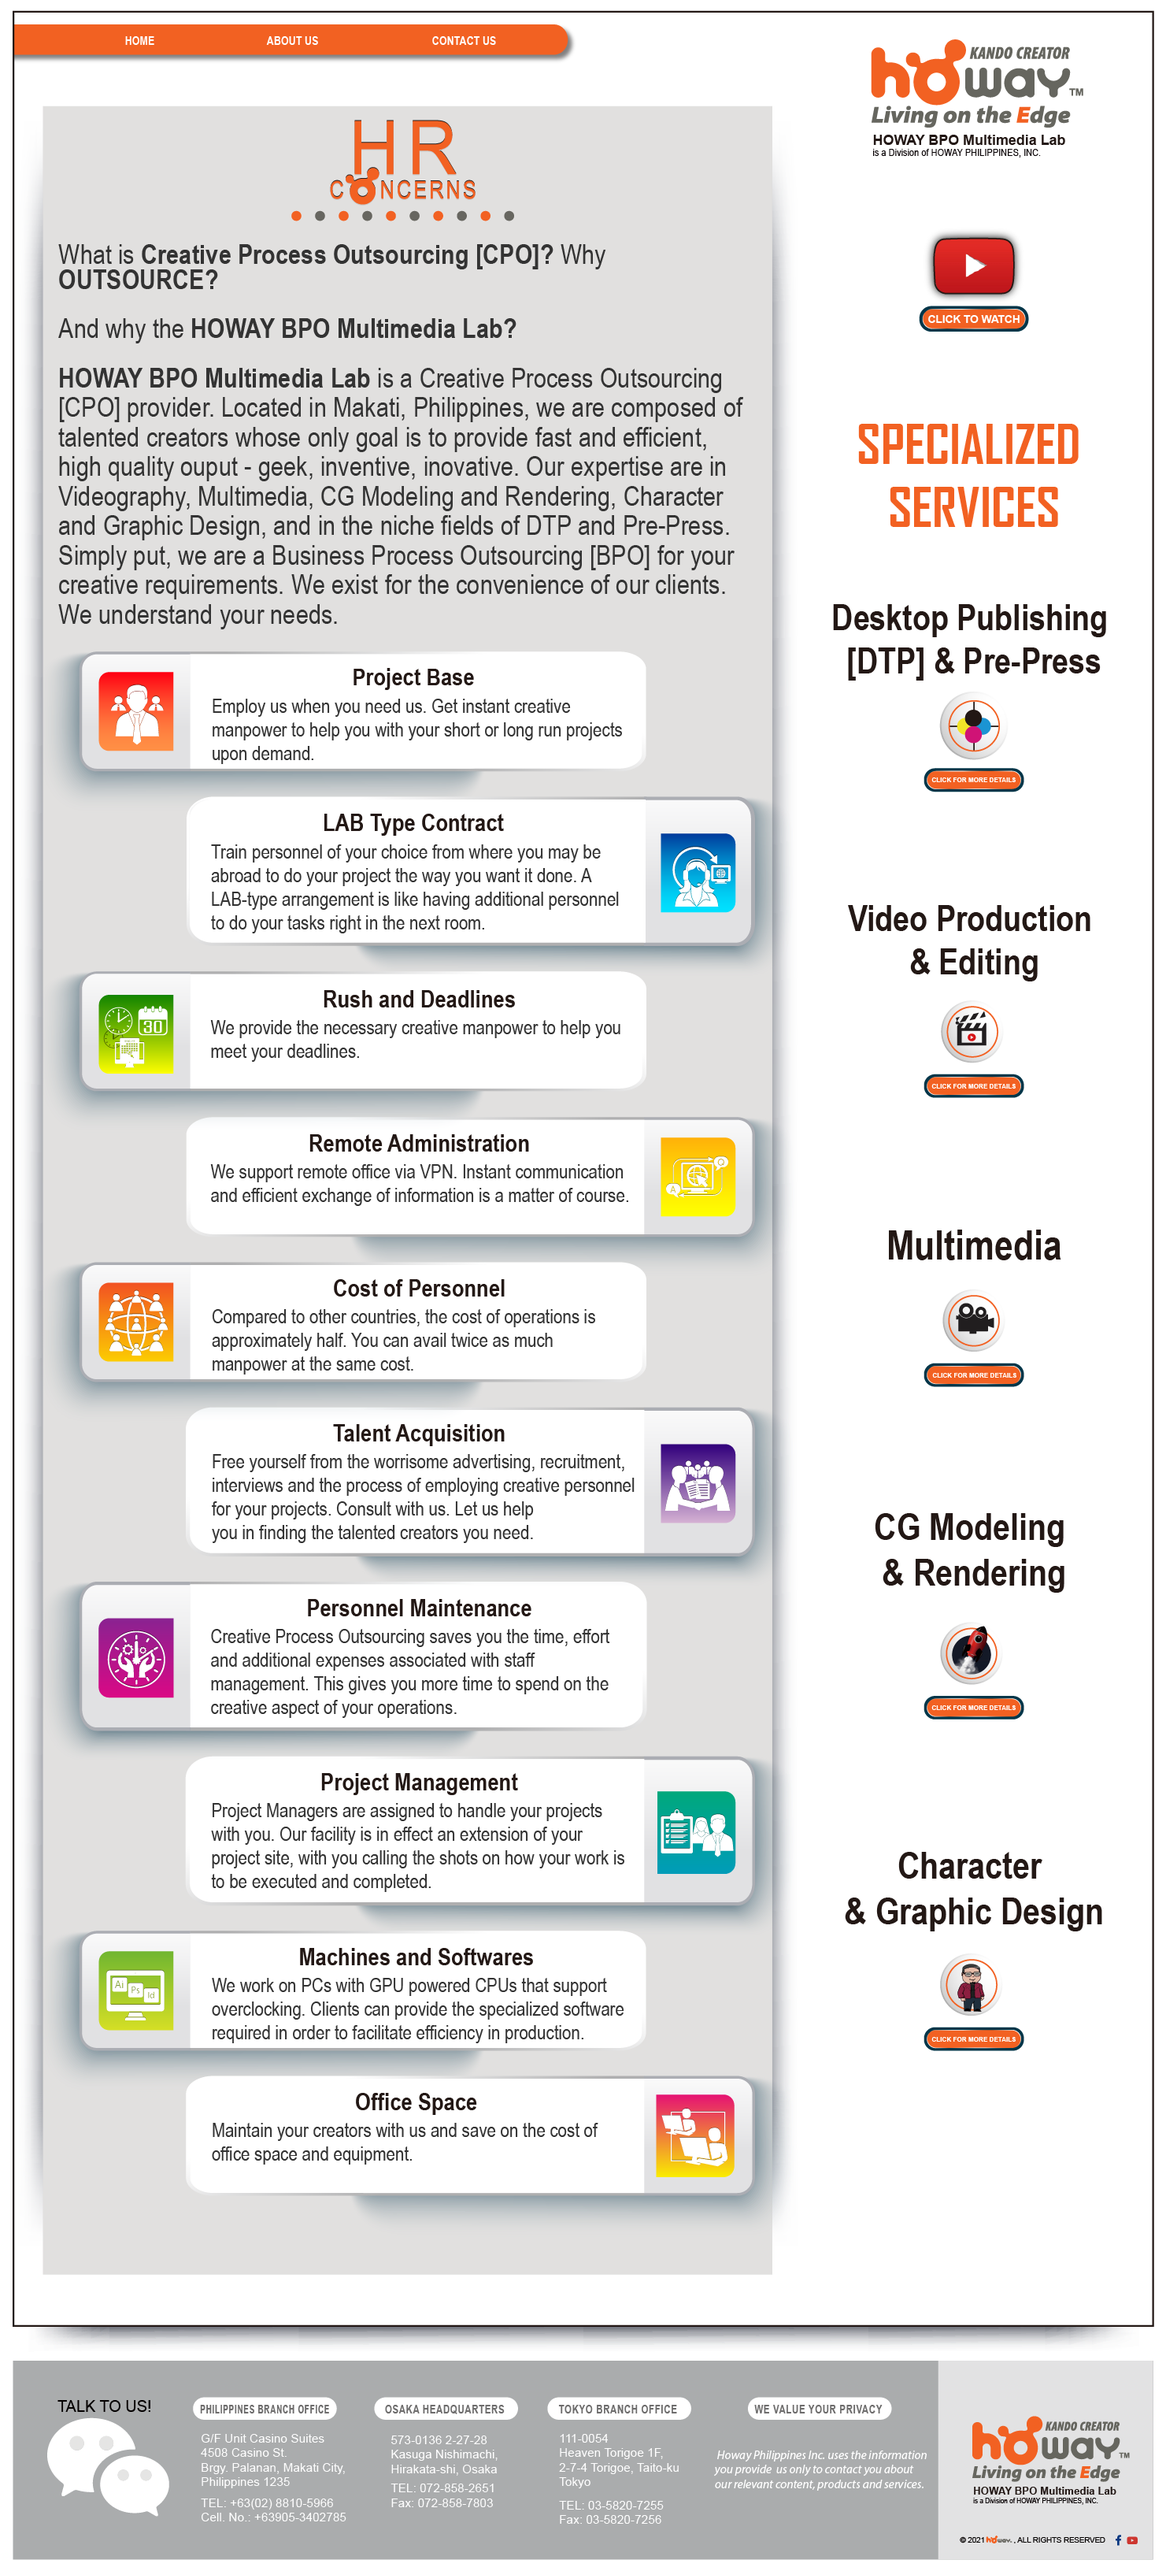
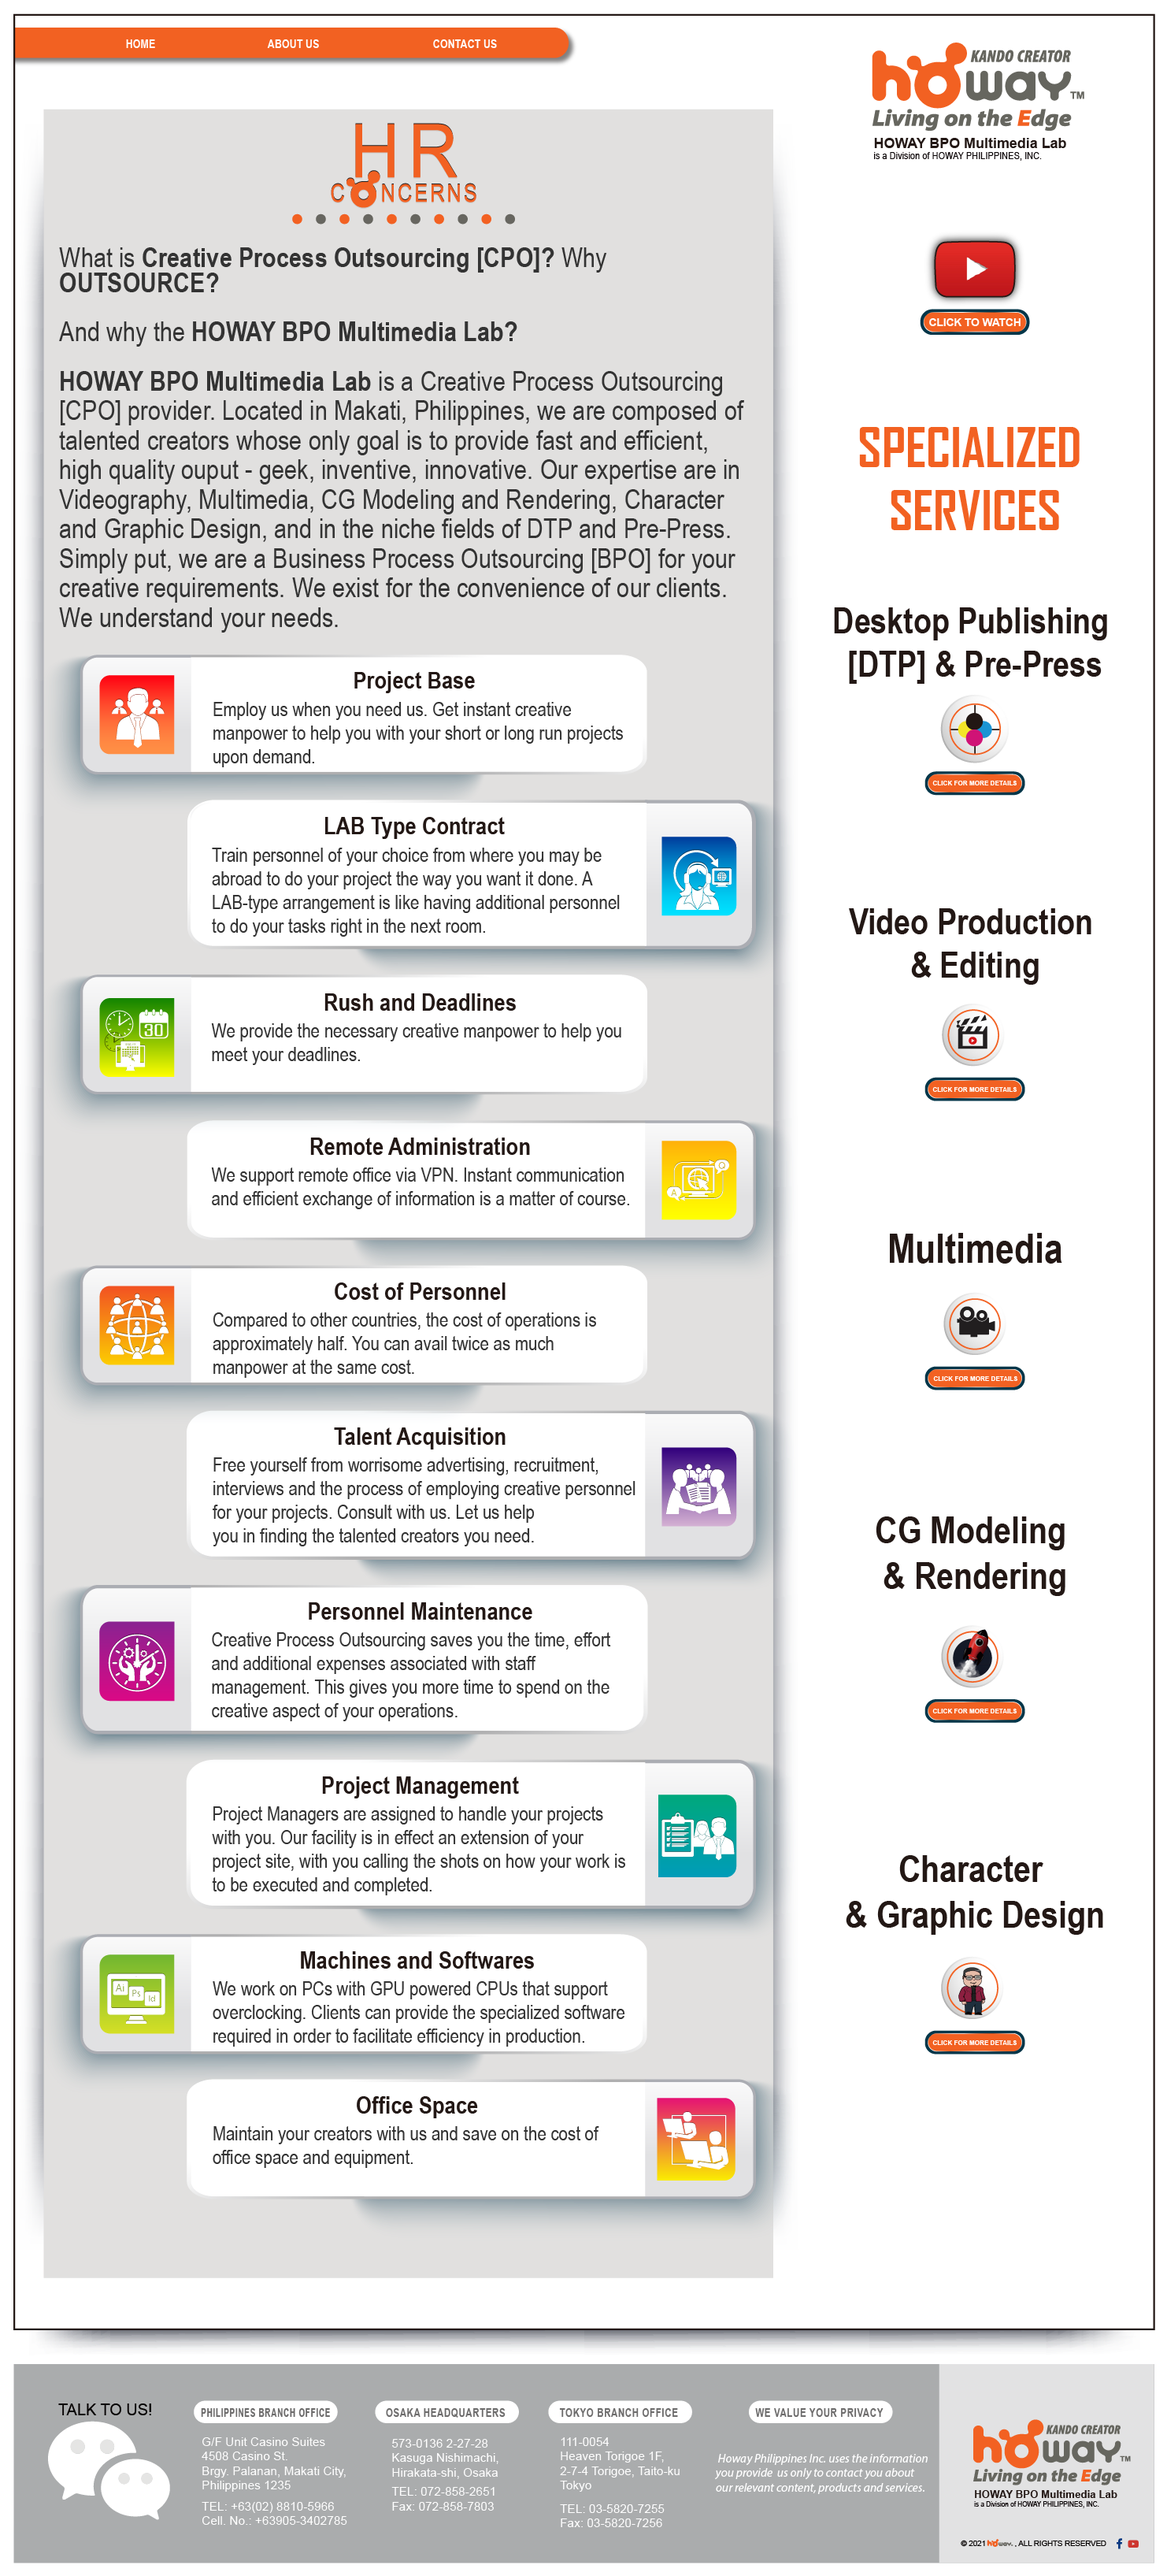
updated

diff --git a/hr.html b/hr.html
@@ -12,20 +12,20 @@
   <body>
    <img src="images/hr.png" alt="Howay Philippines" width="1888" usemap="#Map" style="background-repeat: no-repeat; align-self: center;">
    <map name="Map">
-     <area shape="rect" coords="175,40,276,87" href="index.html">
-     <area shape="rect" coords="409,41,533,88" href="aboutus.html">
-     <area shape="rect" coords="686,41,815,88" href="contactus.html">
+     <area shape="rect" coords="178,47,279,94" href="index.html">
+     <area shape="rect" coords="409,47,533,94" href="aboutus.html">
+     <area shape="rect" coords="686,46,815,93" href="contactus.html">
      <area shape="rect" coords="1405,59,1762,263" href="index.html">
      <area shape="rect" coords="1492,1234,1667,1287" href="dtp.html">
      <area shape="rect" coords="1492,1732,1666,1781" href="vep.html">
-     <area shape="rect" coords="1495,2201,1661,2245" href="vamgp.html">
+     <area shape="rect" coords="1495,2205,1661,2249" href="vamgp.html">
      <area shape="rect" coords="1491,2740,1666,2791" href="cgmr.html">
      <area shape="rect" coords="1488,3270,1665,3329" href="cgd.html">
      <area shape="rect" coords="1563,3901,1834,4064" href="index.html">
      <area shape="rect" coords="1806,4100,1818,4121" href="https://www.facebook.com/HOWAY-BPO-Multi-media-Lab-100115955405460">
      <area shape="rect" coords="1823,4101,1845,4120" href="https://www.youtube.com/watch?v=pbA3FLm87Kk&feature=youtu.be">
      <area shape="rect" coords="1481,489,1675,545" href="https://www.youtube.com/watch?v=pbA3FLm87Kk&feature=youtu.be">
-<area shape="rect" coords="52,3920,284,4097" href="https://www.facebook.com/messages/t/100115955405460">
+<area shape="rect" coords="52,3910,284,4087" href="https://www.facebook.com/messages/t/100115955405460">
    </map>
    
    
